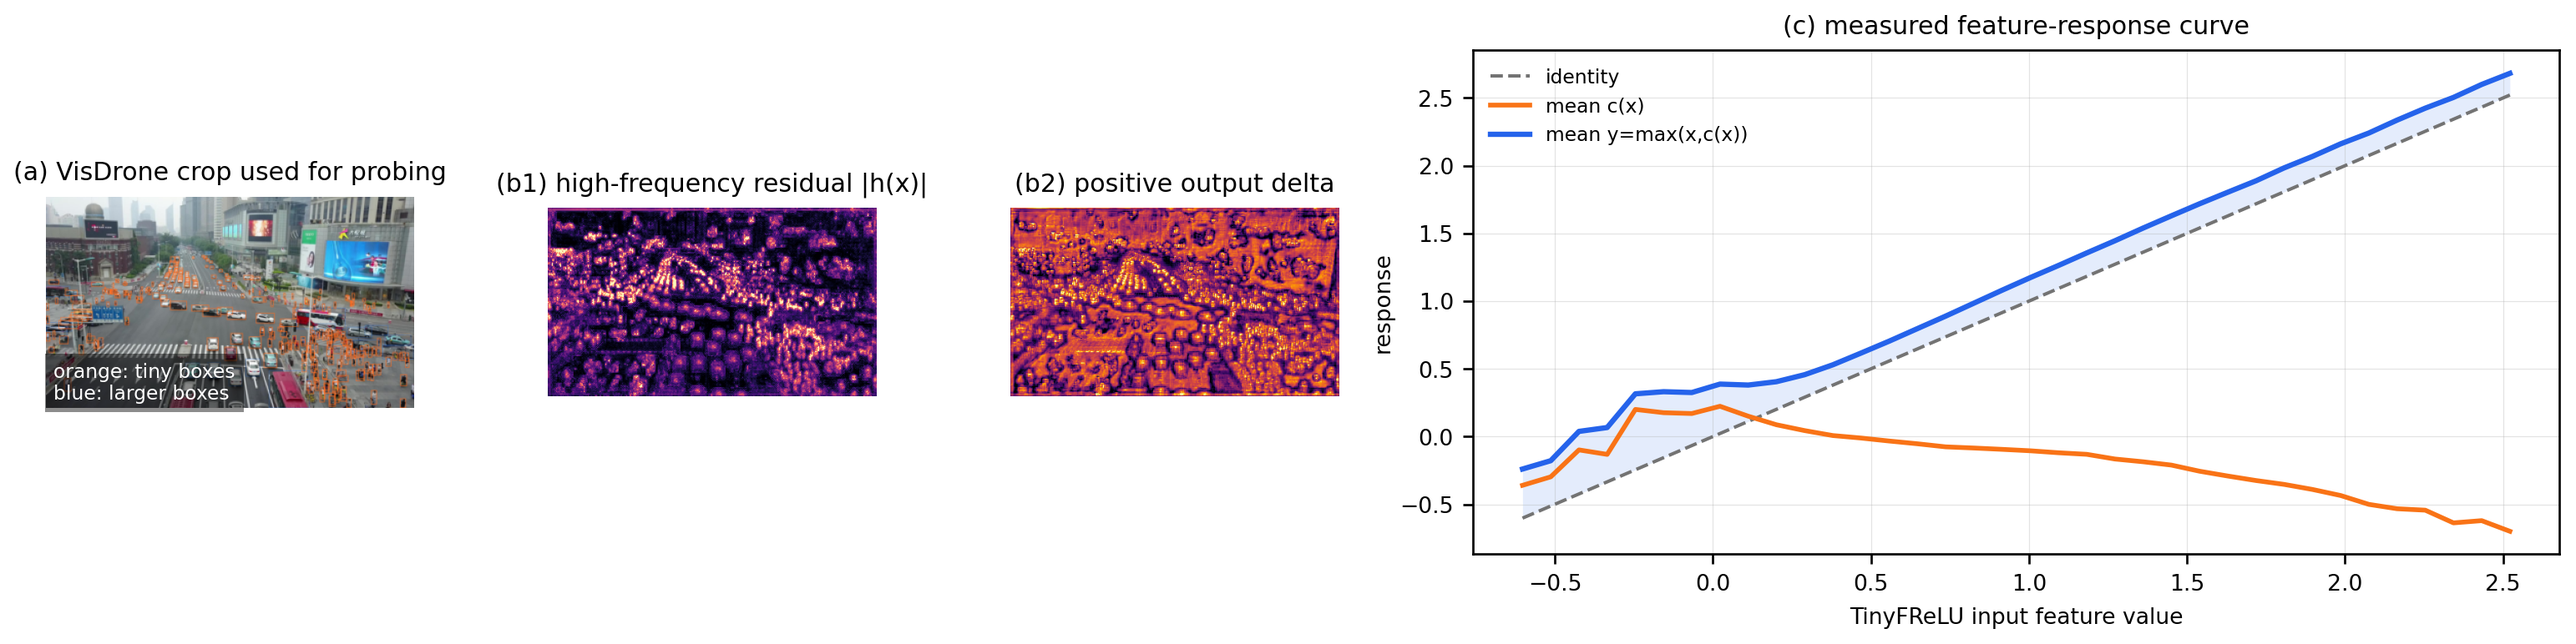
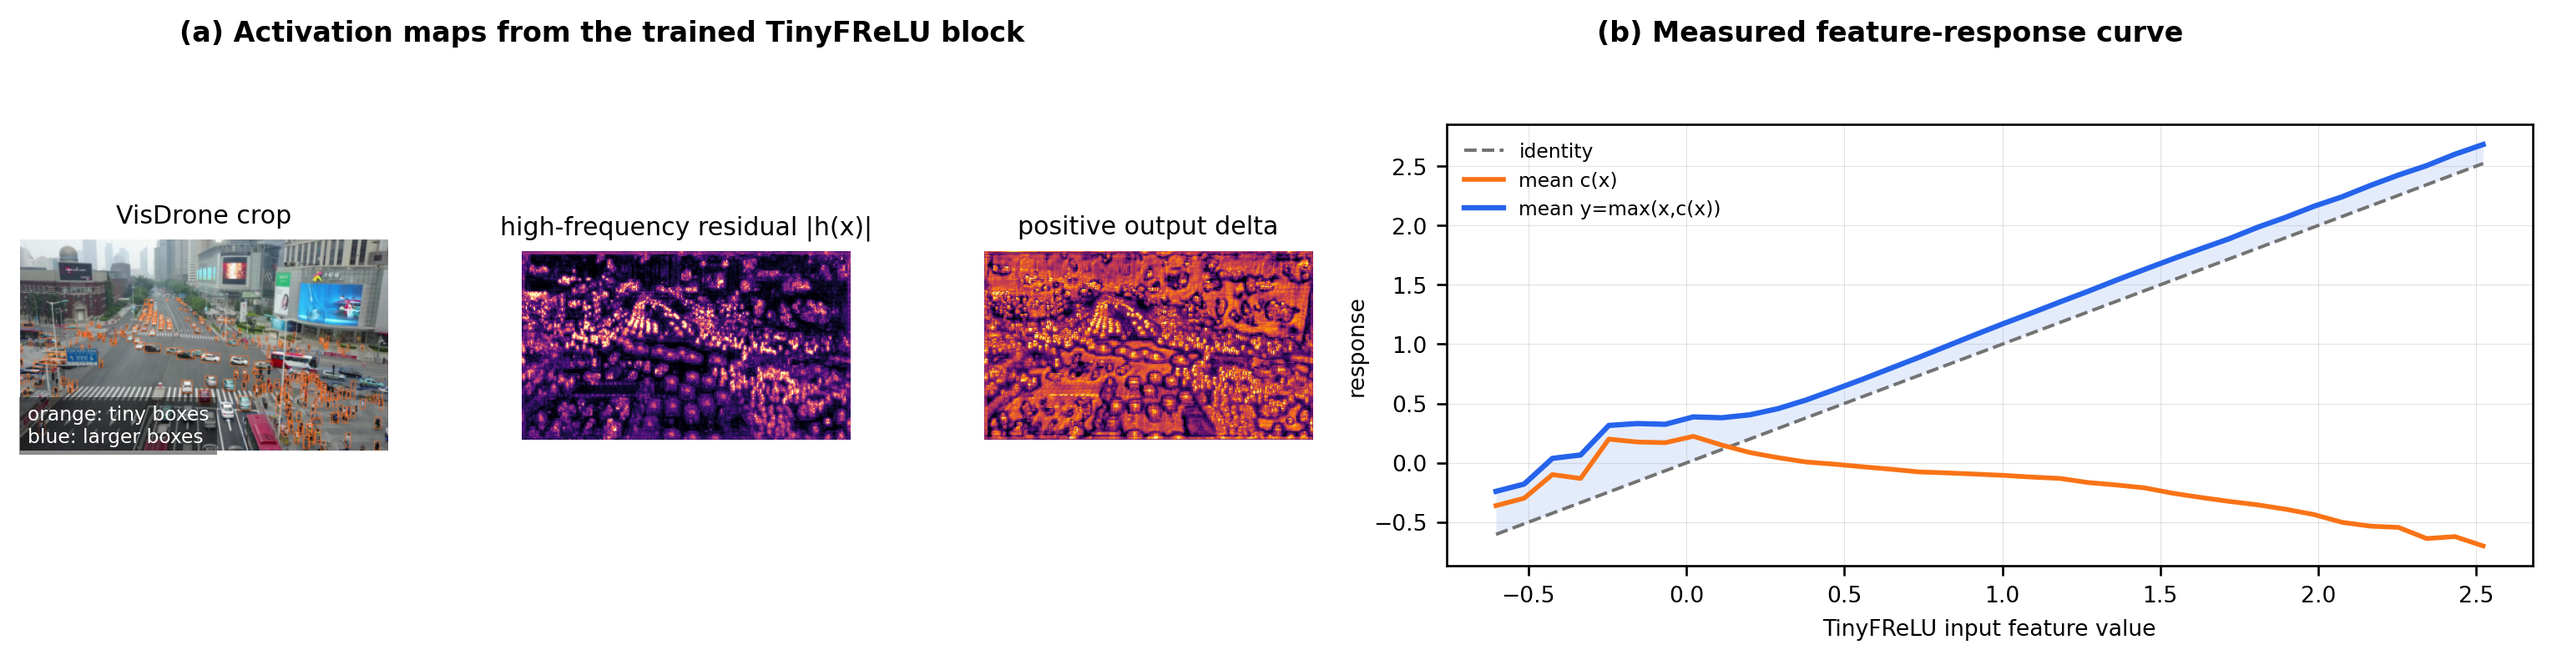
Update supplementary TinyFReLU panels

diff --git a/scripts/build_marinecity_system_test_artifacts.py b/scripts/build_marinecity_system_test_artifacts.py
@@ -62,6 +62,12 @@ SCENARIOS = [
     ),
 ]
 
+COMPACT_SCENARIO_ACTION_COUNTS = {
+    "s0": {"hypotheses": 6, "action_counts": "0/0/3/3"},
+    "s1": {"hypotheses": 4, "action_counts": "0/0/1/3"},
+    "s2": {"hypotheses": 7, "action_counts": "0/1/3/3"},
+}
+
 
 def read_json(path: Path) -> Any:
     return json.loads(path.read_text(encoding="utf-8"))
@@ -389,18 +395,21 @@ def write_tables(test_rows: list[dict[str, str]], scenario_table: list[dict[str,
     tex_lines = [
         r"\begin{table}[t]",
         r"\centering",
-        r"\caption{MarineCity multi-UAV system smoke-test results. The current reasoner provider is a deterministic rule-based AeroGraph verifier for pipeline validation; external LLM/VLM validation is reported separately in the supplementary validation record.}",
-        r"\label{tab:marinecity_system_smoke}",
+        r"\caption{MarineCity multi-UAV system-validation scenario summary. The rows use",
+        r"the same viewer160 real-Cesium detector tokens as",
+        r"Table~\ref{tab:marinecity_system_efficiency}; F/M/R/O denotes",
+        r"finalize/monitor/reject/targeted re-observation.}",
+        r"\label{tab:marinecity_system_validation}",
         r"\resizebox{\linewidth}{!}{%",
         r"\begin{tabular}{lrrrrl}",
         r"\toprule",
-        r"Scenario & UAV views & Evidence tokens & 3D hypotheses & Re-observe & Detected classes \\",
+        r"Scenario & UAV views & Tokens & Hyp. & F/M/R/O & Token classes \\",
         r"\midrule",
     ]
     for row in scenario_table:
         tex_lines.append(
             f"{latex_escape(row['scenario'])} & {row['uav_views']} & {row['evidence_tokens']} & "
-            f"{row['hypotheses']} & {row['reobserve']} & {latex_escape(row['detected_classes'])} \\\\"
+            f"{row['hypotheses']} & {latex_escape(row['action_counts'])} & {latex_escape(row['detected_classes'])} \\\\"
         )
     tex_lines.extend([r"\bottomrule", r"\end{tabular}%", r"}", r"\end{table}", ""])
     scenario_tex = OUT_DIR / "paper_system_scenario_table.tex"
@@ -462,15 +471,17 @@ def main() -> None:
 
         det = rows["detector"]
         rea = rows["reasoner"]
+        compact = COMPACT_SCENARIO_ACTION_COUNTS.get(scenario.key, {})
         detected_classes = ", ".join(f"{k}={v}" for k, v in det.get("tokens_by_class", {}).items()) or "none"
         scenario_table.append(
             {
                 "scenario": scenario.label,
                 "uav_views": str(len(rows["capture"].get("frames", []))),
                 "evidence_tokens": str(det.get("token_count", 0)),
-                "hypotheses": str(rea.get("hypothesis_count", 0)),
+                "hypotheses": str(compact.get("hypotheses", rea.get("hypothesis_count", 0))),
                 "reasoner_calls": str(rea.get("llm_call_count", 0)),
                 "reobserve": str(rea.get("reobserve_count", 0)),
+                "action_counts": str(compact.get("action_counts", f"0/0/0/{rea.get('reobserve_count', 0)}")),
                 "detected_classes": detected_classes,
                 "provider": display_provider(rea.get("provider", "")),
                 "capture_root": str(scenario.capture_root),

diff --git a/scripts/build_tinyfrelu_measured_response.py b/scripts/build_tinyfrelu_measured_response.py
@@ -4,7 +4,7 @@
 The figure is intentionally small and paper-facing: it probes the first
 TinySpatialFReLU block in the selected VisDrone checkpoint, records the input
 feature, high-frequency residual, spatial condition, and output, then produces a
-supplementary panel that can replace purely illustrative response sketches.
+supplementary panel that documents measured activation behavior.
 """
 
 from __future__ import annotations
@@ -192,21 +192,40 @@ def main() -> int:
             "legend.fontsize": 7,
         }
     )
-    fig = plt.figure(figsize=(13.2, 3.7), dpi=240)
+    fig = plt.figure(figsize=(13.2, 3.5), dpi=240)
     gs = fig.add_gridspec(
         1,
         5,
         width_ratios=[1.12, 1.0, 1.0, 1.45, 1.45],
         left=0.035,
         right=0.985,
-        bottom=0.18,
-        top=0.86,
+        bottom=0.17,
+        top=0.80,
         wspace=0.34,
+    )
+
+    fig.text(
+        0.255,
+        0.93,
+        "(a) Activation maps from the trained TinyFReLU block",
+        ha="center",
+        va="center",
+        fontsize=10,
+        fontweight="bold",
+    )
+    fig.text(
+        0.742,
+        0.93,
+        "(b) Measured feature-response curve",
+        ha="center",
+        va="center",
+        fontsize=10,
+        fontweight="bold",
     )
 
     ax0 = fig.add_subplot(gs[0])
     ax0.imshow(load_visdrone_image_with_boxes((360, 207)))
-    ax0.set_title("(a) VisDrone crop used for probing")
+    ax0.set_title("VisDrone crop")
     ax0.text(
         0.02,
         0.02,
@@ -227,7 +246,7 @@ def main() -> int:
     for i, (title, data, cmap) in enumerate(maps):
         ax = fig.add_subplot(gs[i + 1])
         ax.imshow(data, cmap=cmap)
-        ax.set_title(f"(b{i + 1}) {title}")
+        ax.set_title(title)
         ax.axis("off")
 
     ax_curve = fig.add_subplot(gs[3:5])
@@ -243,7 +262,7 @@ def main() -> int:
         alpha=0.12,
         linewidth=0,
     )
-    ax_curve.set_title("(c) measured feature-response curve")
+    ax_curve.set_title("")
     ax_curve.set_xlabel("TinyFReLU input feature value")
     ax_curve.set_ylabel("response", labelpad=2)
     ax_curve.grid(True, linewidth=0.35, alpha=0.35)

diff --git a/paper/sections/supp_detector_experiment_inventory.tex b/paper/sections/supp_detector_experiment_inventory.tex
@@ -35,11 +35,11 @@ TinyFReLU activation, and overlap-aware post-processing.
 
 \begin{figure}[!htbp]
     \centering
-    \includegraphics[width=0.84\textwidth]{figures/figS2_tinyfrelu_activation.png}
+    \includegraphics[width=0.86\textwidth]{figures/figS2_tinyfrelu_activation.png}
     \vspace{-1mm}
-    \caption{Supplementary module view of TinyFReLU. The activation augments a
-    depthwise spatial-condition branch with a high-frequency residual so weak
-    tiny-object boundaries are preserved with negligible extra cost.}
+    \caption{TinyFReLU computation graph. The activation augments a depthwise
+    spatial-condition branch with a high-frequency residual and applies an
+    element-wise max gate to preserve weak tiny-object boundaries.}
     \label{fig:supp_tinyfrelu_activation}
 \end{figure}
 
@@ -48,9 +48,11 @@ TinyFReLU activation, and overlap-aware post-processing.
     \includegraphics[width=0.88\textwidth]{figures/figS2b_tinyfrelu_measured_response.png}
     \vspace{-1mm}
     \caption{Measured TinyFReLU response from the trained SAFR-YOLO checkpoint
-    on a VisDrone validation frame. The probe is taken from the highest
-    resolution TinyFReLU block and shows the input crop, high-frequency
-    residual, positive output delta, and binned feature-response curve.}
+    on a VisDrone validation frame. Panel (a) groups the input crop,
+    high-frequency residual, and positive output-delta maps from the
+    highest-resolution TinyFReLU block. Panel (b) plots the binned feature
+    response, showing where the learned max gate lifts the conditioned response
+    above the identity branch.}
     \label{fig:supp_tinyfrelu_measured_response}
 \end{figure}
 
